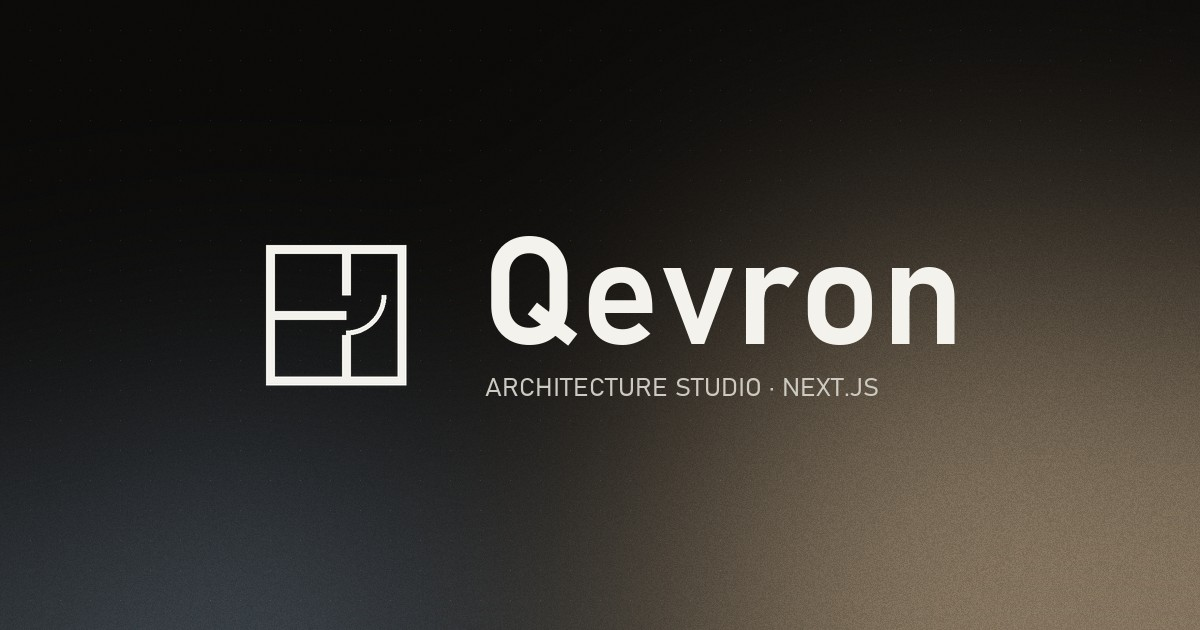
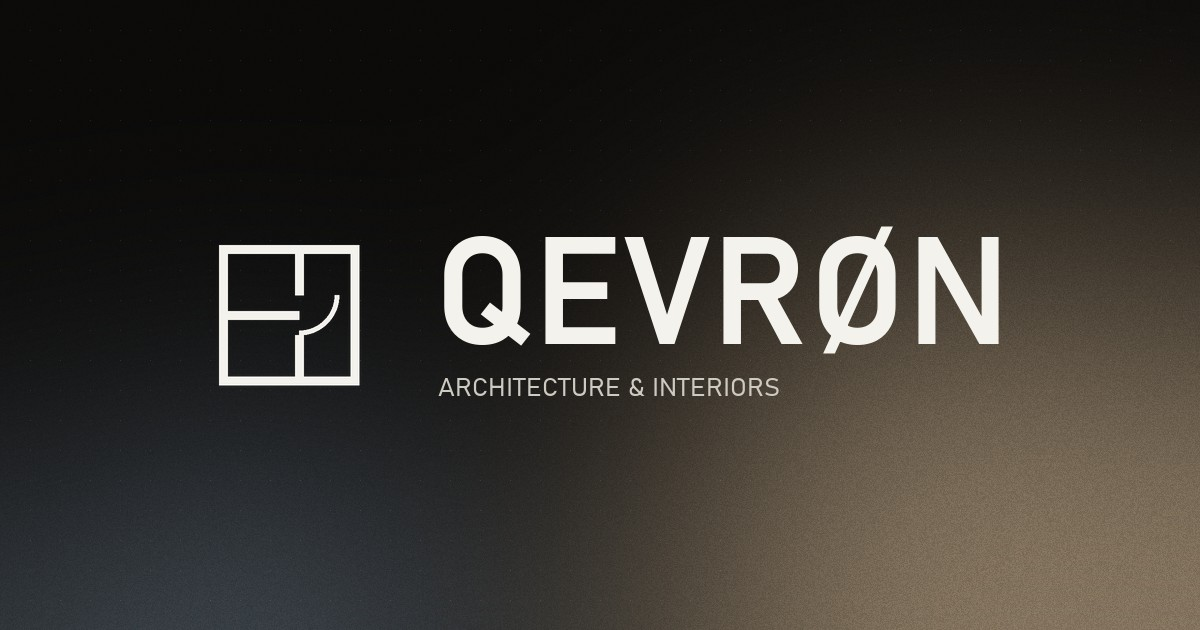
Templates: QEVRØN is a Framer template, add Carbonyx
Point QEVRØN at its Framer listing with a new card, add Carbonyx as the
ninth template, and drop the Next.js wording from the templates page.

Changed region(s): [[0.37, 0.3619, 0.8325, 0.573], [0.185, 0.3619, 0.3392, 0.6333], [0.37, 0.6032, 0.74, 0.6333]]

diff --git a/src/data/data.ts b/src/data/data.ts
@@ -209,7 +209,7 @@ export const featuredWorks: FeaturedWork[] = [
     imageAlt: "Framer Templates",
     kind: "collection",
     role: "Built the templates, published on Pixels71.",
-    stack: ["Framer", "Next.js", "CMS"],
+    stack: ["Framer", "CMS", "Interactions"],
   },
   {
     title: "Eventera",
@@ -249,13 +249,22 @@ export type Template = {
 /** Website templates shown on the /templates page. */
 export const templates: Template[] = [
   {
-    title: "Qevron",
-    category: "Architecture studio",
+    title: "QEVRØN",
+    category: "Architecture & interiors",
     description:
-      "For architecture and interior design studios, with a floor plan that draws itself on scroll, WebGL project cards and a map view of the work.",
-    href: "https://www.pixels71.com/templates/qevron-architecture-studio-next-js-template",
+      "A refined template for architecture studios and interior designers to showcase their work.",
+    href: "https://www.pixels71.com/templates/qevr-n-architecture-interiors",
     image: "/images/templates/qevron.jpg",
-    platform: "Next.js",
+    platform: "Framer",
+  },
+  {
+    title: "Carbonyx",
+    category: "Climate data SaaS",
+    description:
+      "For climate-tech and carbon-accounting platforms: emissions, energy and climate-risk data presented as one live dashboard.",
+    href: "https://carbonyx.framer.website/",
+    image: "/images/templates/carbonyx.jpg",
+    platform: "Framer",
   },
   {
     title: "Countly",

diff --git a/src/components/templates/templates-page.tsx b/src/components/templates/templates-page.tsx
@@ -74,7 +74,7 @@ export const TemplatesPage = () => {
           className="invisible flex items-center gap-3 font-aspekta-500 text-tagline-3 tracking-[0.12em] text-background-1/50 uppercase"
         >
           <span aria-hidden className="h-px w-8 bg-current" />
-          Framer &amp; Next.js
+          Built in Framer
         </p>
         <h1
           data-intro
@@ -89,8 +89,8 @@ export const TemplatesPage = () => {
           data-intro
           className="invisible max-w-xl font-instrument-serif text-xl leading-snug text-background-1/60 md:text-2xl"
         >
-          Premium website templates for studios, startups and service
-          businesses, published on Pixels71.
+          Premium Framer templates for studios, startups and service
+          businesses.
         </p>
       </header>
 

diff --git a/src/app/templates/page.tsx b/src/app/templates/page.tsx
@@ -4,7 +4,7 @@ import { DEFAULT_URL, generateMetadata } from "@/utils/metadata"
 
 export const metadata = generateMetadata(
   `Templates — ${profile.name}`,
-  `Premium Framer and Next.js website templates by ${profile.name}, published on Pixels71.`,
+  `Premium Framer website templates by ${profile.name}.`,
   new URL("/templates", DEFAULT_URL).toString(),
   "/images/templates/framer-templates.jpg"
 )
